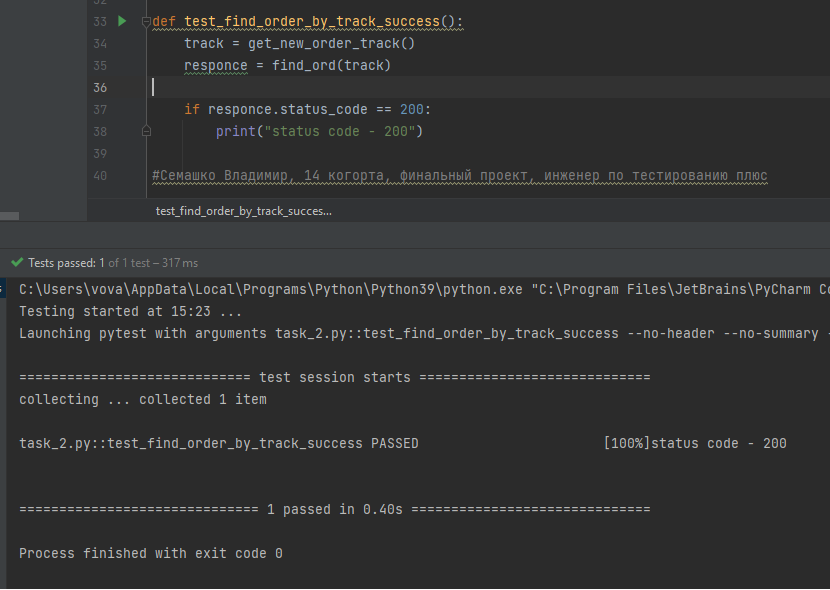
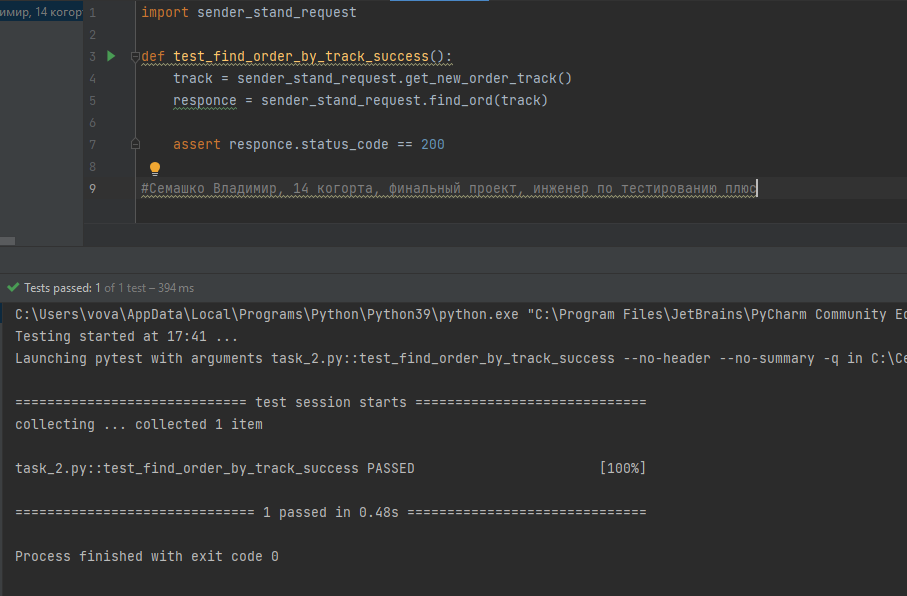
Upload additional files

diff --git a/task_2.py b/task_2.py
@@ -1,40 +1,9 @@
-#Семашко Владимир, 14 когорта, финальный проект, инженер по тестированию плюс
-import requests
-
-SERVICE_URL = "https://3190a209-cf3d-4fef-a15f-381f2b774c47.serverhub.praktikum-services.ru"
-
-NEW_ORDER = "/api/v1/orders"
-ORDER_TRACK = "/api/v1/orders/track?t="
-
-header = {
-    "Content-Type": "application/json"
-}
-
-ord_body = {
-    "firstName": "Naruto",
-    "lastName": "Uchiha",
-    "address": "Konoha, 142 apt.",
-    "metroStation": 4,
-    "phone": "+7 800 355 35 35",
-    "rentTime": 5,
-    "deliveryDate": "2020-06-06",
-    "comment": "Saske, come back to Konoha",
-    "color": [
-        "BLACK"
-    ]
-}
-#создание заказа
-def get_new_order_track():
-    return requests.post(SERVICE_URL + NEW_ORDER, json=ord_body, headers=header).json()["track"]
-
-def find_ord(track):
-    return requests.get(SERVICE_URL + ORDER_TRACK + str(track))
+import sender_stand_request
 
 def test_find_order_by_track_success():
-    track = get_new_order_track()
-    responce = find_ord(track)
+    track = sender_stand_request.get_new_order_track()
+    responce = sender_stand_request.find_ord(track)
 
-    if responce.status_code == 200:
-        print("status code - 200")
+    assert responce.status_code == 200
 
 #Семашко Владимир, 14 когорта, финальный проект, инженер по тестированию плюс

diff --git a/sender_stand_request.py b/sender_stand_request.py
@@ -1,0 +1,10 @@
+import configuration
+import requests
+import data
+
+#создание заказа
+def get_new_order_track():
+    return requests.post(configuration.SERVICE_URL + configuration.NEW_ORDER, json=data.ord_body, headers=data.header).json()["track"]
+
+def find_ord(track):
+    return requests.get(configuration.SERVICE_URL + configuration.ORDER_TRACK + str(track))

diff --git a/data.py b/data.py
@@ -1,0 +1,17 @@
+header = {
+    "Content-Type": "application/json"
+}
+
+ord_body = {
+    "firstName": "Naruto",
+    "lastName": "Uchiha",
+    "address": "Konoha, 142 apt.",
+    "metroStation": 4,
+    "phone": "+7 800 355 35 35",
+    "rentTime": 5,
+    "deliveryDate": "2020-06-06",
+    "comment": "Saske, come back to Konoha",
+    "color": [
+        "BLACK"
+    ]
+}

diff --git a/configuration.py b/configuration.py
@@ -1,0 +1,4 @@
+SERVICE_URL = "https://5b1d611d-28a2-401d-adfc-a1e7e7b74f4a.serverhub.praktikum-services.ru"
+
+NEW_ORDER = "/api/v1/orders"
+ORDER_TRACK = "/api/v1/orders/track?t="
